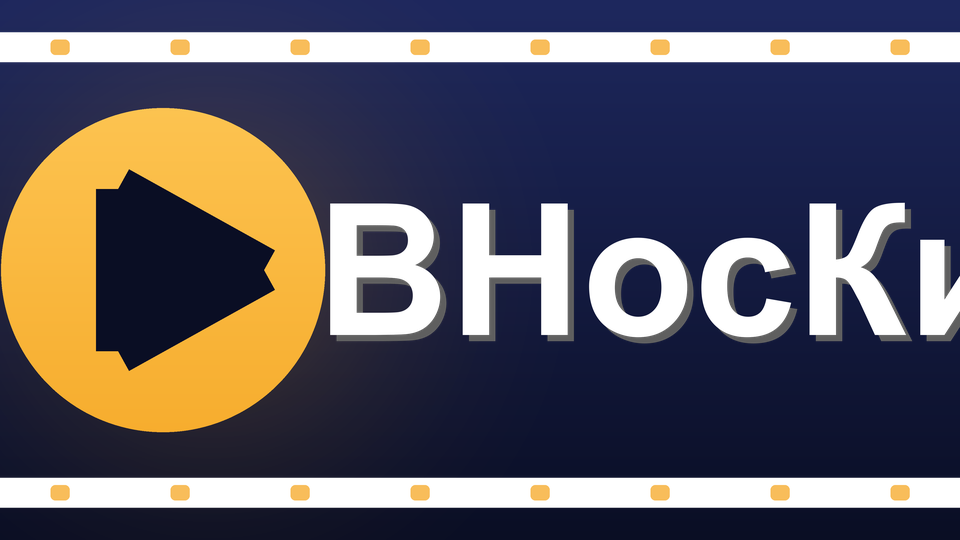
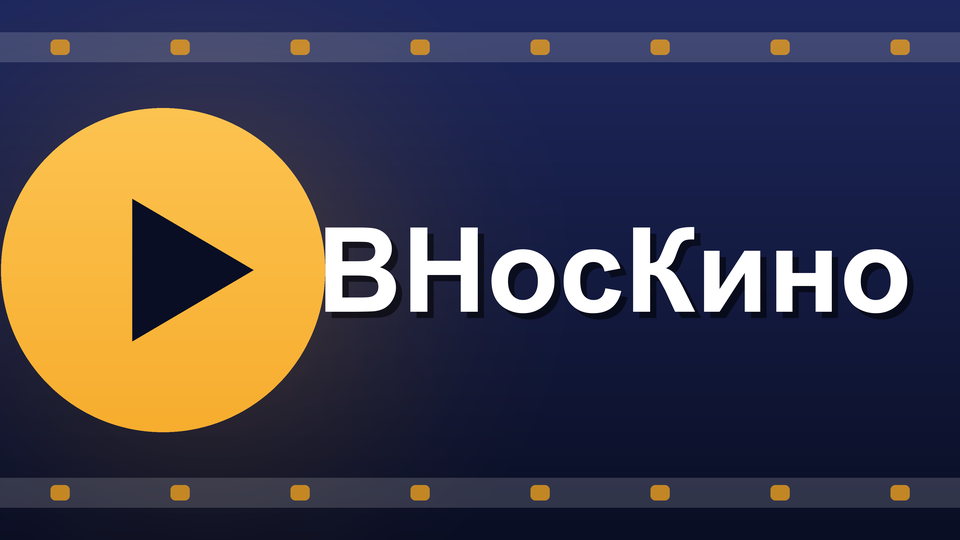
v0.9.9: фокус при открытии кода разработчика — сразу на «1» экранной панели (иначе код не набрать с пульта — проверено на эмуляторе)

diff --git a/app/src/main/java/com/torrenttv/app/ui/SettingsScreen.kt b/app/src/main/java/com/torrenttv/app/ui/SettingsScreen.kt
@@ -1331,6 +1331,10 @@ private fun DevCodeScreen(onOk: () -> Unit, onClose: () -> Unit) {
             }
             // Экранная панель 0–9 + ⌫ — только при встроенном вводе
             if (!externalKb) {
+                // Фокус — сразу на «1»: без этого фокус непредсказуем и код
+                // «не набирается» (проверено на эмуляторе)
+                val padFocus = remember { FocusRequester() }
+                LaunchedEffect(Unit) { runCatching { padFocus.requestFocus() } }
                 val digits = listOf("1", "2", "3", "4", "5", "6", "7", "8", "9", "⌫", "0", "OK")
                 Column(
                     horizontalAlignment = Alignment.CenterHorizontally,
@@ -1341,6 +1345,7 @@ private fun DevCodeScreen(onOk: () -> Unit, onClose: () -> Unit) {
                             for (d in row) {
                                 androidx.tv.material3.Surface(
                                     onClick = { press(d) },
+                                    modifier = if (d == "1") Modifier.focusRequester(padFocus) else Modifier,
                                     shape = clickableSurfaceShape(RoundedCornerShape(10.dp)),
                                     colors = ClickableSurfaceDefaults.colors(
                                         containerColor = Color(0xFF1F2430),

diff --git a/art/make_logo.py b/art/make_logo.py
@@ -9,9 +9,10 @@ ROOT = os.path.dirname(os.path.dirname(os.path.abspath(__file__)))
 ART = os.path.join(ROOT, "art")
 os.makedirs(ART, exist_ok=True)
 
-# Фирменные цвета (взяты из текущей темы приложения: янтарь + тёмно-синий)
-AMBER = (245, 166, 35)
-AMBER_LIGHT = (255, 203, 92)
+# Фирменные цвета (взяты из текущей темы приложения: тёмно-синий + белый/стальной)
+# Жёлтый убран: акцент — белый со стальным отливом
+AMBER = (188, 204, 232)          # стальной акцент (перфорация, низ кнопки)
+AMBER_LIGHT = (255, 255, 255)    # верх кнопки Play
 NAVY_TOP = (30, 40, 94)
 NAVY_BOTTOM = (10, 14, 36)
 NAVY_TEXT = (13, 17, 23)
@@ -54,6 +55,17 @@ def radial_glow(size, center, radius, color, max_alpha):
     return rgba
 
 
+def overlay(img, draw_fn):
+    """Рисование с полупрозрачными цветами через отдельный слой.
+
+    ImageDraw пишет RGBA-пиксели напрямую (без смешивания), поэтому любая
+    полупрозрачная заливка должна идти через оверлей + alpha_composite.
+    """
+    layer = Image.new("RGBA", img.size, (0, 0, 0, 0))
+    draw_fn(ImageDraw.Draw(layer))
+    img.alpha_composite(layer)
+
+
 def rounded_polygon(draw, pts, radius, fill):
     """Многоугольник со скруглёнными углами (для кнопки Play)."""
     # Рисуем обычный полигон + «утолщённые» линии со стыками — углы скругляются.
@@ -84,22 +96,23 @@ def make_icon(master_px=1024):
     d = ImageDraw.Draw(img)
 
     # Киноплёнка: две вертикальные полосы с перфорацией по краям
-    strip_w = int(S * 0.075)
-    strip_color = (255, 255, 255, 26)
-    for x0 in (int(S * 0.055), S - int(S * 0.055) - strip_w):
-        d.rounded_rectangle(
-            [x0, int(S * 0.10), x0 + strip_w, int(S * 0.90)],
-            radius=strip_w // 3, fill=strip_color,
-        )
-        holes = 7
-        hole_h = int(S * 0.030)
-        for i in range(holes):
-            cy = int(S * 0.10) + int(S * 0.80) * (i + 0.5) // holes
+    strip_w = int(S * 0.06)
+    for x0 in (int(S * 0.06), S - int(S * 0.06) - strip_w):
+        def strips(d, x0=x0):
             d.rounded_rectangle(
-                [x0 + strip_w // 4, cy - hole_h // 2,
-                 x0 + strip_w - strip_w // 4, cy + hole_h // 2],
-                radius=hole_h // 3, fill=(*AMBER, 200),
+                [x0, int(S * 0.12), x0 + strip_w, int(S * 0.88)],
+                radius=strip_w // 3, fill=(255, 255, 255, 45),
             )
+            holes = 6
+            hole_h = int(S * 0.024)
+            for i in range(holes):
+                cy = int(S * 0.12) + int(S * 0.76) * (i + 0.5) // holes
+                d.rounded_rectangle(
+                    [x0 + strip_w // 4, cy - hole_h // 2,
+                     x0 + strip_w - strip_w // 4, cy + hole_h // 2],
+                    radius=hole_h // 3, fill=(*AMBER, 170),
+                )
+        overlay(img, strips)
 
     # Кнопка Play: круг с градиентом янтаря
     cx, cy, R = S // 2, S // 2, int(S * 0.30)
@@ -109,13 +122,13 @@ def make_icon(master_px=1024):
     grad.putalpha(circle)
     img.alpha_composite(grad)
 
-    # Треугольник Play (тёмно-синий, скруглённый, со сдвигом вправо для баланса)
-    tri = int(R * 0.52)
-    shift = int(R * 0.10)
-    pts = [(cx - tri * 0.75 + shift, cy - tri),
-           (cx - tri * 0.75 + shift, cy + tri),
-           (cx + tri * 1.05 + shift, cy)]
-    rounded_polygon(d, pts, radius=int(tri * 0.28), fill=NAVY_BOTTOM + (255,))
+    # Треугольник Play (тёмно-синий, со сдвигом вправо для баланса);
+    # скругление не нужно — суперсэмплинг сам сглаживает углы.
+    tri = int(R * 0.46)
+    shift = int(R * 0.12)
+    d.polygon([(cx - tri * 0.7 + shift, cy - tri),
+               (cx - tri * 0.7 + shift, cy + tri),
+               (cx + tri * 1.0 + shift, cy)], fill=NAVY_BOTTOM + (255,))
 
     return img.resize((master_px, master_px), Image.LANCZOS)
 
@@ -132,17 +145,19 @@ def make_banner(w=960):
     d = ImageDraw.Draw(img)
 
     # Перфорация киноплёнки верхней и нижней кромкой
-    for y0, y1 in ((int(SH * 0.06), int(SH * 0.115)),
-                   (int(SH * 0.885), int(SH * 0.94))):
-        d.rectangle([0, y0, S, y1], fill=(255, 255, 255, 22))
-        n = max(6, S // int(SH * 0.22))
-        hw = int(SH * 0.018)
-        for i in range(n):
-            x = int(S * (i + 0.5) / n)
-            d.rounded_rectangle(
-                [x - hw, y0 + (y1 - y0) // 4, x + hw, y1 - (y1 - y0) // 4],
-                radius=hw // 2, fill=(*AMBER, 190),
-            )
+    def film_bands(d):
+        for y0, y1 in ((int(SH * 0.06), int(SH * 0.115)),
+                       (int(SH * 0.885), int(SH * 0.94))):
+            d.rectangle([0, y0, S, y1], fill=(255, 255, 255, 40))
+            n = max(6, S // int(SH * 0.22))
+            hw = int(SH * 0.018)
+            for i in range(n):
+                x = int(S * (i + 0.5) / n)
+                d.rounded_rectangle(
+                    [x - hw, y0 + (y1 - y0) // 4, x + hw, y1 - (y1 - y0) // 4],
+                    radius=hw // 2, fill=(*AMBER, 200),
+                )
+    overlay(img, film_bands)
 
     # Мини-кнопка Play слева
     cx, cy, R = int(S * 0.17), SH // 2, int(SH * 0.30)
@@ -151,11 +166,11 @@ def make_banner(w=960):
     grad = gradient_bg((S, SH), AMBER_LIGHT, AMBER).convert("RGBA")
     grad.putalpha(circle)
     img.alpha_composite(grad)
-    tri = int(R * 0.5)
-    pts = [(cx - tri * 0.75 + int(R * 0.1), cy - tri),
-           (cx - tri * 0.75 + int(R * 0.1), cy + tri),
-           (cx + tri * 1.05 + int(R * 0.1), cy)]
-    rounded_polygon(d, pts, radius=int(tri * 0.28), fill=NAVY_BOTTOM + (255,))
+    tri = int(R * 0.44)
+    shift = int(R * 0.12)
+    d.polygon([(cx - tri * 0.7 + shift, cy - tri),
+               (cx - tri * 0.7 + shift, cy + tri),
+               (cx + tri * 1.0 + shift, cy)], fill=NAVY_BOTTOM + (255,))
 
     # Название
     font = None
@@ -163,19 +178,27 @@ def make_banner(w=960):
                  "/System/Library/Fonts/Helvetica.ttc"):
         if os.path.exists(path):
             try:
-                font = ImageFont.truetype(path, int(SH * 0.34))
+                font = ImageFont.truetype(path, int(SH * 0.30))
                 break
             except OSError:
                 pass
     if font is None:
         raise SystemExit("Не найден системный шрифт с кириллицей")
     text = "ВНосКино"
+    # Автоподбор размера: текст должен занимать не более 62% ширины баннера
+    max_w = int(S * 0.62)
     bbox = d.textbbox((0, 0), text, font=font)
+    if bbox[2] - bbox[0] > max_w:
+        k = max_w / (bbox[2] - bbox[0])
+        font = ImageFont.truetype(font.path, int(font.size * k))
+        bbox = d.textbbox((0, 0), text, font=font)
     tw, th = bbox[2] - bbox[0], bbox[3] - bbox[1]
     tx, ty = int(S * 0.33), cy - th // 2 - bbox[1]
-    # Лёгкая тень для читаемости
-    d.text((tx + int(SH * 0.012), ty + int(SH * 0.012)), text,
-           font=font, fill=(0, 0, 0, 160))
+    # Лёгкая тень для читаемости (через оверлей — честный полупрозрачный чёрный)
+    def shadow(d):
+        d.text((tx + int(SH * 0.012), ty + int(SH * 0.012)), text,
+               font=font, fill=(0, 0, 0, 140))
+    overlay(img, shadow)
     d.text((tx, ty), text, font=font, fill=(255, 255, 255, 255))
 
     return img.resize((w, h), Image.LANCZOS)
